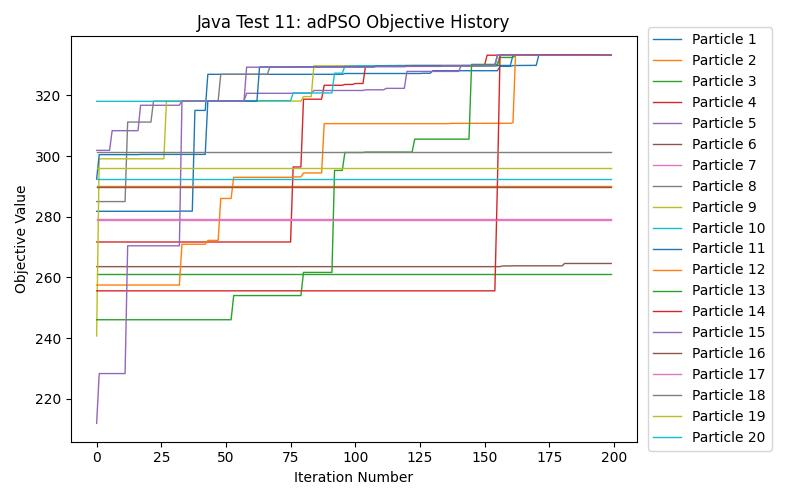
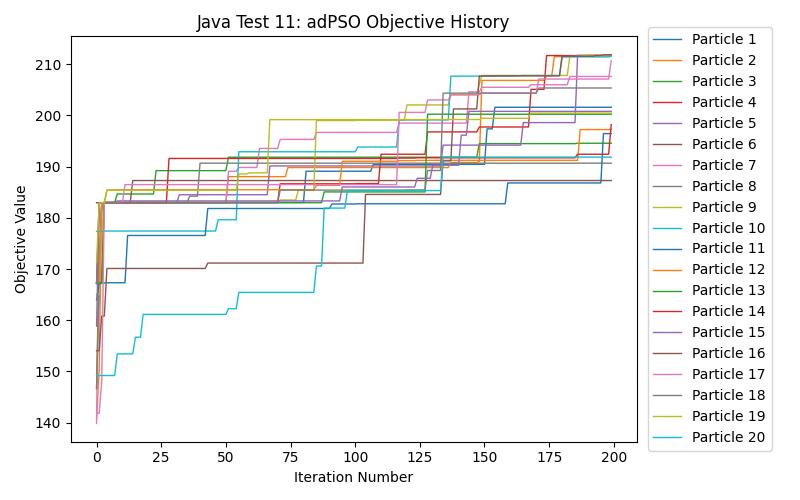
work on bug fixing, rust plot for test 11 looking pretty good

diff --git a/psoscheduler-rust/src/lib.rs b/psoscheduler-rust/src/lib.rs
@@ -112,7 +112,7 @@ pub fn build_test4_data_center() -> simulation::data_center::DataCenter {
 
   let mut data_center = simulation::data_center::DataCenter::new();
 
-  for i in 0..n_vms {
+  for _ in 0..n_vms {
     let mips: u32 = utils::utilities::get_random_integer(vm_mips_low, vm_mips_high) as u32;
     let vm = simulation::virtual_machine::VirtualMachine::new(mips, 500.);
     data_center.add_virtual_machine(vm);
@@ -154,11 +154,11 @@ pub fn build_test11_data_center() -> simulation::data_center::DataCenter {
 
   let mut data_center = simulation::data_center::DataCenter::new();
 
-  for i in 0..n_vms {
+  for _ in 0..n_vms {
     let mi = utils::utilities::get_random_integer(vm_mips_low, vm_mips_high) as u32;
     let asj = utils::utilities::get_random_float(active_state_joules_per_mi_low, active_state_joules_per_mi_high);
     let vm = simulation::virtual_machine::VirtualMachine::new(mi, asj);
-    data_center.add_virtual_machine(vm)
+    data_center.add_virtual_machine(vm);
   }
 
   simulation::virtual_machine::VIRTUAL_MACHINE_ID_COUNTER.store(0, Ordering::Relaxed);
@@ -173,7 +173,7 @@ pub fn build_test11_workload() -> simulation::workload::Workload {
 
   let mut workload = simulation::workload::Workload::new();
 
-  for i in 0..n_tasks {
+  for _ in 0..n_tasks {
     let mi = utils::utilities::get_random_integer(task_mi_low, task_mi_high) as u32;
     let task = simulation::task::Task::new(mi);
     workload.add_task(task);
@@ -249,7 +249,7 @@ pub fn run_test_pso_main() {
     "2" => build_test2_workload(),
     "3" => build_test3_workload(),
     "4" => build_test4_workload(),
-    // "5" => build_test5_workload(),
+    "5" => build_test5_workload(),
     // "6" => build_test6_workload(),
     // "7" => build_test7_workload(),
     // "8" => build_test8_workload(),
@@ -264,7 +264,7 @@ pub fn run_test_pso_main() {
     "2" => build_test2_data_center(),
     "3" => build_test3_data_center(),
     "4" => build_test4_data_center(),
-    // "5" => build_test5_data_center(),
+    "5" => build_test5_data_center(),
     // "6" => build_test6_data_center(),
     // "7" => build_test7_data_center(),
     // "8" => build_test8_data_center(),
@@ -277,7 +277,7 @@ pub fn run_test_pso_main() {
   let mut swarm = pso::pso_swarm::PSOSwarm::new(workload, data_center);
   swarm.run_pso_algorithm();
   println!("Global Best Objective: {:?}", swarm.global_best_objective);
-  println!("Final Mapping: {:?}", swarm.global_best_task_vm_mapping);
+  // println!("Final Mapping: {:?}", swarm.global_best_task_vm_mapping);
 
   println!("Saving objective history to objective_history.csv... ");
   // Save the cost history to local file
@@ -285,7 +285,7 @@ pub fn run_test_pso_main() {
 }
 
 pub fn ndarray_ops(arr1: &Array2<f32>, arr2: &Array2<f32>) {
-  let arr3 = (arr2 - arr1).mapv(|a| a * 5.);
+  let _arr3 = (arr2 - arr1).mapv(|a| a * 5.);
 }
 
 pub fn benchmark_ndarray() {
@@ -294,7 +294,7 @@ pub fn benchmark_ndarray() {
 
   let mut total: Duration = Duration::new(0, 0);
 
-  for i in 0..1000 {
+  for _ in 0..1000 {
     let start = Instant::now();
     ndarray_ops(&arr1, &arr2);
     total += start.elapsed();

diff --git a/psoscheduler-rust/src/pso/particle.rs b/psoscheduler-rust/src/pso/particle.rs
@@ -34,15 +34,16 @@ impl Particle {
 
     data_center.reset_virtual_machine_ready_time();
 
-    // TODO sort tasks once, not all 20 times
     for task in workload.get_sorted_tasks().iter() {
       let vm_id: usize;
-      if utilities::get_random_float(0., 1.) < 0.25 {
+      if utilities::get_random_float(0., 1.) < 0.25 { // TODO change to 0.25
         vm_id = utilities::get_random_integer(0, data_center.virtual_machines.len());
       } else {
         vm_id = data_center.get_min_eet_virtual_machine(task);
       }
       position[[task.id, vm_id]] = 1.;
+      // TODO comment out
+      task_vm_mapping.insert(task.id, vm_id);
       data_center.add_execution_time_to_virtual_machine(task, vm_id);
     }
 
@@ -104,13 +105,13 @@ impl Particle {
     let r2: f32 = utilities::get_random_float(0., 1.);
 
     self.velocity.mapv_inplace(|a| a * w);
-    let local_exploration: Array2<f32> = (&self.personal_best_position - &self.position)
-                                          .mapv(|a| a * Particle::C1 * r1);
-    let global_exploration: Array2<f32> = (global_best_position - &self.position)
-                                          .mapv(|a| a * Particle::C2 * r2);
+    let mut local_exploration: Array2<f32> = &self.personal_best_position - &self.position;
+    local_exploration.mapv_inplace(|a| a * Particle::C1 * r1);
+    let mut global_exploration: Array2<f32> = global_best_position - &self.position;
+    global_exploration.mapv_inplace(|a| a * Particle::C2 * r2);
     self.velocity += &(local_exploration + &global_exploration);
     self.velocity.mapv_inplace(|a| -> f32 {
-      if a.abs() > Particle::MAX_ABS_VELOCITY {
+      if a.abs() > Particle::MAX_ABS_VELOCITY || a < 0. {
         return utilities::get_random_float(0., Particle::MAX_ABS_VELOCITY);
       }
       return a;
@@ -125,7 +126,7 @@ impl Particle {
       let mut max_val: f32 = 0.;
       for (j, e) in row.indexed_iter() {
         self.position[[i, j]] = 0.;
-        if e > &max_val {
+        if *e > max_val {
           max_col = j;
           max_val = *e;
         }

diff --git a/psoscheduler-rust/src/simulation/data_center.rs b/psoscheduler-rust/src/simulation/data_center.rs
@@ -87,6 +87,7 @@ impl DataCenter {
     return energy_consumption;
   }
 
+  #[allow(dead_code)]
   fn compute_energy_consumption_kw(&self) -> f32 {
     let makespan = self.compute_makespan();
     self._compute_energy_consumption_kw(makespan)
@@ -104,7 +105,6 @@ impl DataCenter {
 
   pub fn get_min_eet_virtual_machine(&self, task: &Task) -> usize {
     let cmp = |a: &(&usize, &f32), b: &(&usize, &f32)| -> std::cmp::Ordering {
-      
       let a_vm = &self.virtual_machines[*a.0];
       let b_vm = &self.virtual_machines[*b.0];
       let a_eet = self.virtual_machine_ready_time.get(a.0).unwrap() + self.get_task_execution_time(task, a_vm);

diff --git a/psoscheduler-rust/benches/ndarray_benchmark.rs b/psoscheduler-rust/benches/ndarray_benchmark.rs
@@ -8,7 +8,7 @@ use ndarray_rand::rand_distr::Uniform;
 pub fn criterion_benchmark2(c: &mut Criterion) {
   let arr1: Array2<f32> = black_box(Array::random((1000, 100), Uniform::new(0., 10.)));
   let arr2: Array2<f32> = black_box(Array::random((1000, 100), Uniform::new(0., 10.)));
-  c.bench_function("Rust ndarray Benchmark", |b| b.iter(|| psoscheduler::ndarray_ops(&arr1, &arr2)));
+  c.bench_function("Rust ndarray Ops Benchmark", |b| b.iter(|| psoscheduler::ndarray_ops(&arr1, &arr2)));
 }
 
 criterion_group!(benches, criterion_benchmark2);

diff --git a/psoscheduler-java/src/main/java/syslab/cloudcomputing/utils/Matrix.java b/psoscheduler-java/src/main/java/syslab/cloudcomputing/utils/Matrix.java
@@ -125,7 +125,7 @@ public class Matrix {
   public Matrix enforceElementwiseBound(double maxAbsoluteValue) {
     for (int i = 0; i < this.getRowsCount(); i++) {
       for (int j = 0; j < this.getColumnCount(); j++) {
-        if (Math.abs(this.mtx[i][j]) > maxAbsoluteValue) {
+        if (Math.abs(this.mtx[i][j]) > maxAbsoluteValue || Math.abs(this.mtx[i][j]) < 0) {
           // System.out.println("************************ HIT BOUND, RANDOMIZING!");
           this.mtx[i][j] = Utilities.getRandomDouble(0, maxAbsoluteValue);
         }

diff --git a/psoscheduler-rust/src/pso/pso_swarm.rs b/psoscheduler-rust/src/pso/pso_swarm.rs
@@ -63,8 +63,8 @@ impl PSOSwarm {
   }
 
   fn run_iteration(&mut self, iteration: u32) {
-    self.w = ((PSOSwarm::W1 - PSOSwarm::W1) / self.p_s) + 
-             (((self.max_iterations - (iteration)) / self.max_iterations) as f32) * 
+    self.w = ((PSOSwarm::W1 - PSOSwarm::W2) / self.p_s) + 
+             (((self.max_iterations - (iteration)) as f32) / (self.max_iterations as f32)) * 
              ((PSOSwarm::W1 - (PSOSwarm::W1 - PSOSwarm::W2)) / self.p_s);
 
     let mut ss: f32 = 0.;

diff --git a/plot_objective_history.py b/plot_objective_history.py
@@ -1,5 +1,5 @@
 import argparse
-import matplotlib.pyplot as plt 
+import matplotlib.pyplot as plt
 import numpy as np
 
 def plot(test_id, language, particle_histories, path):

diff --git a/psoscheduler-rust/src/main.rs b/psoscheduler-rust/src/main.rs
@@ -1,8 +1,6 @@
 use psoscheduler;
 
 fn main() {
-  // env::set_var("RUST_BACKTRACE", "1");
-
   // psoscheduler::benchmark_ndarray();
 
   psoscheduler::run_test_pso_main();
